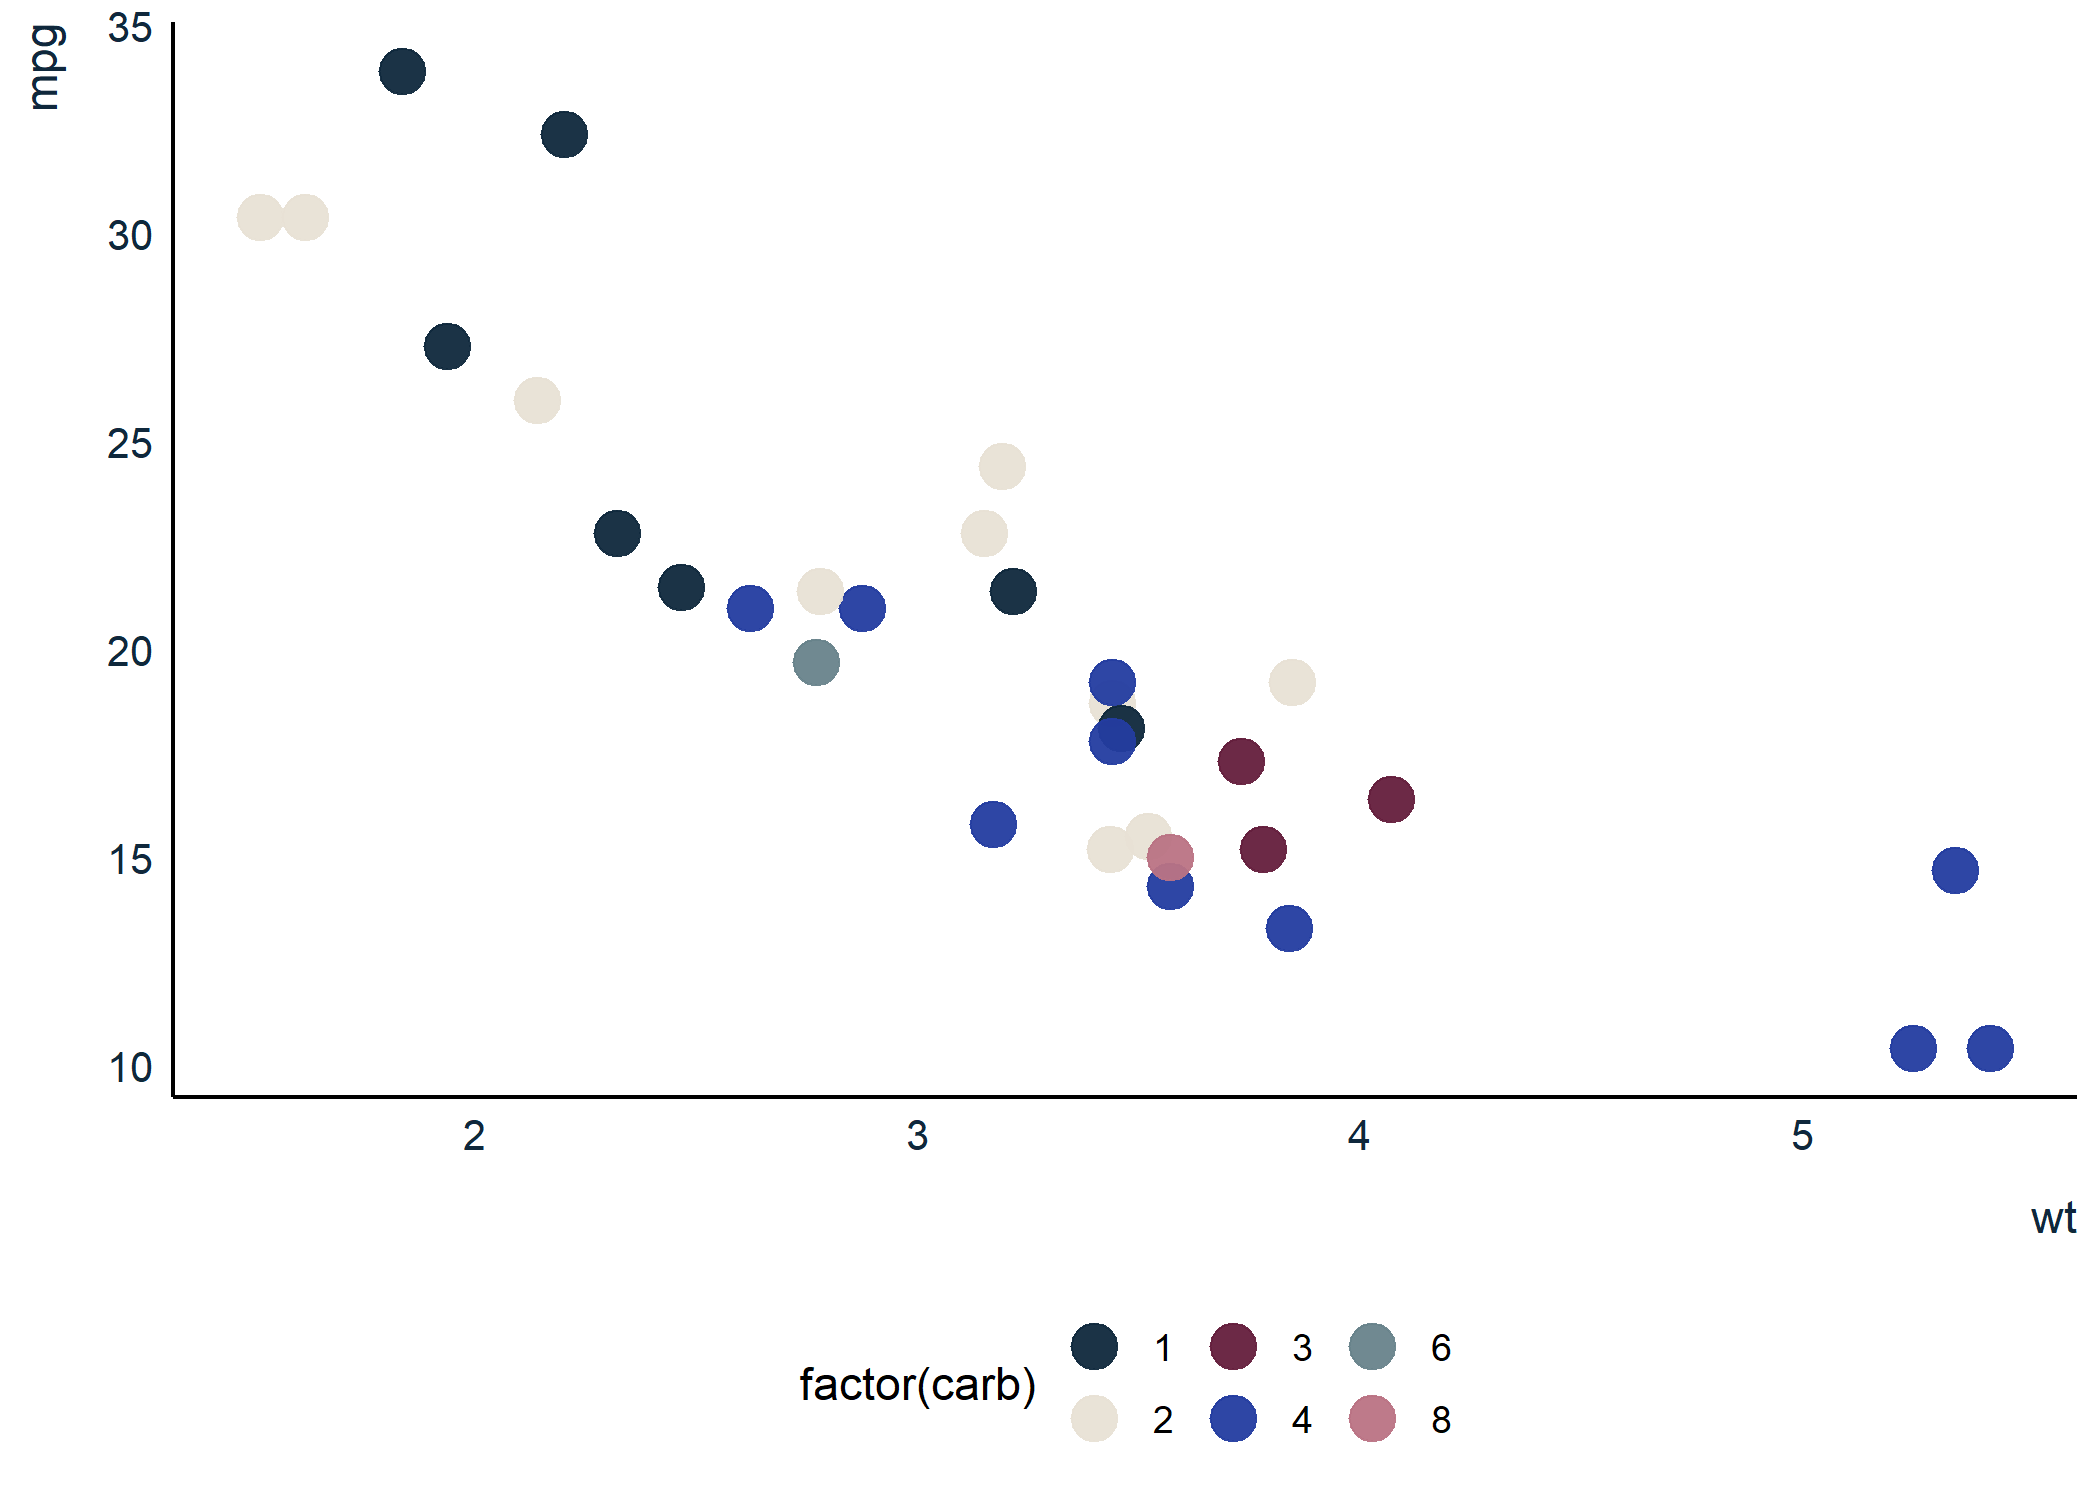
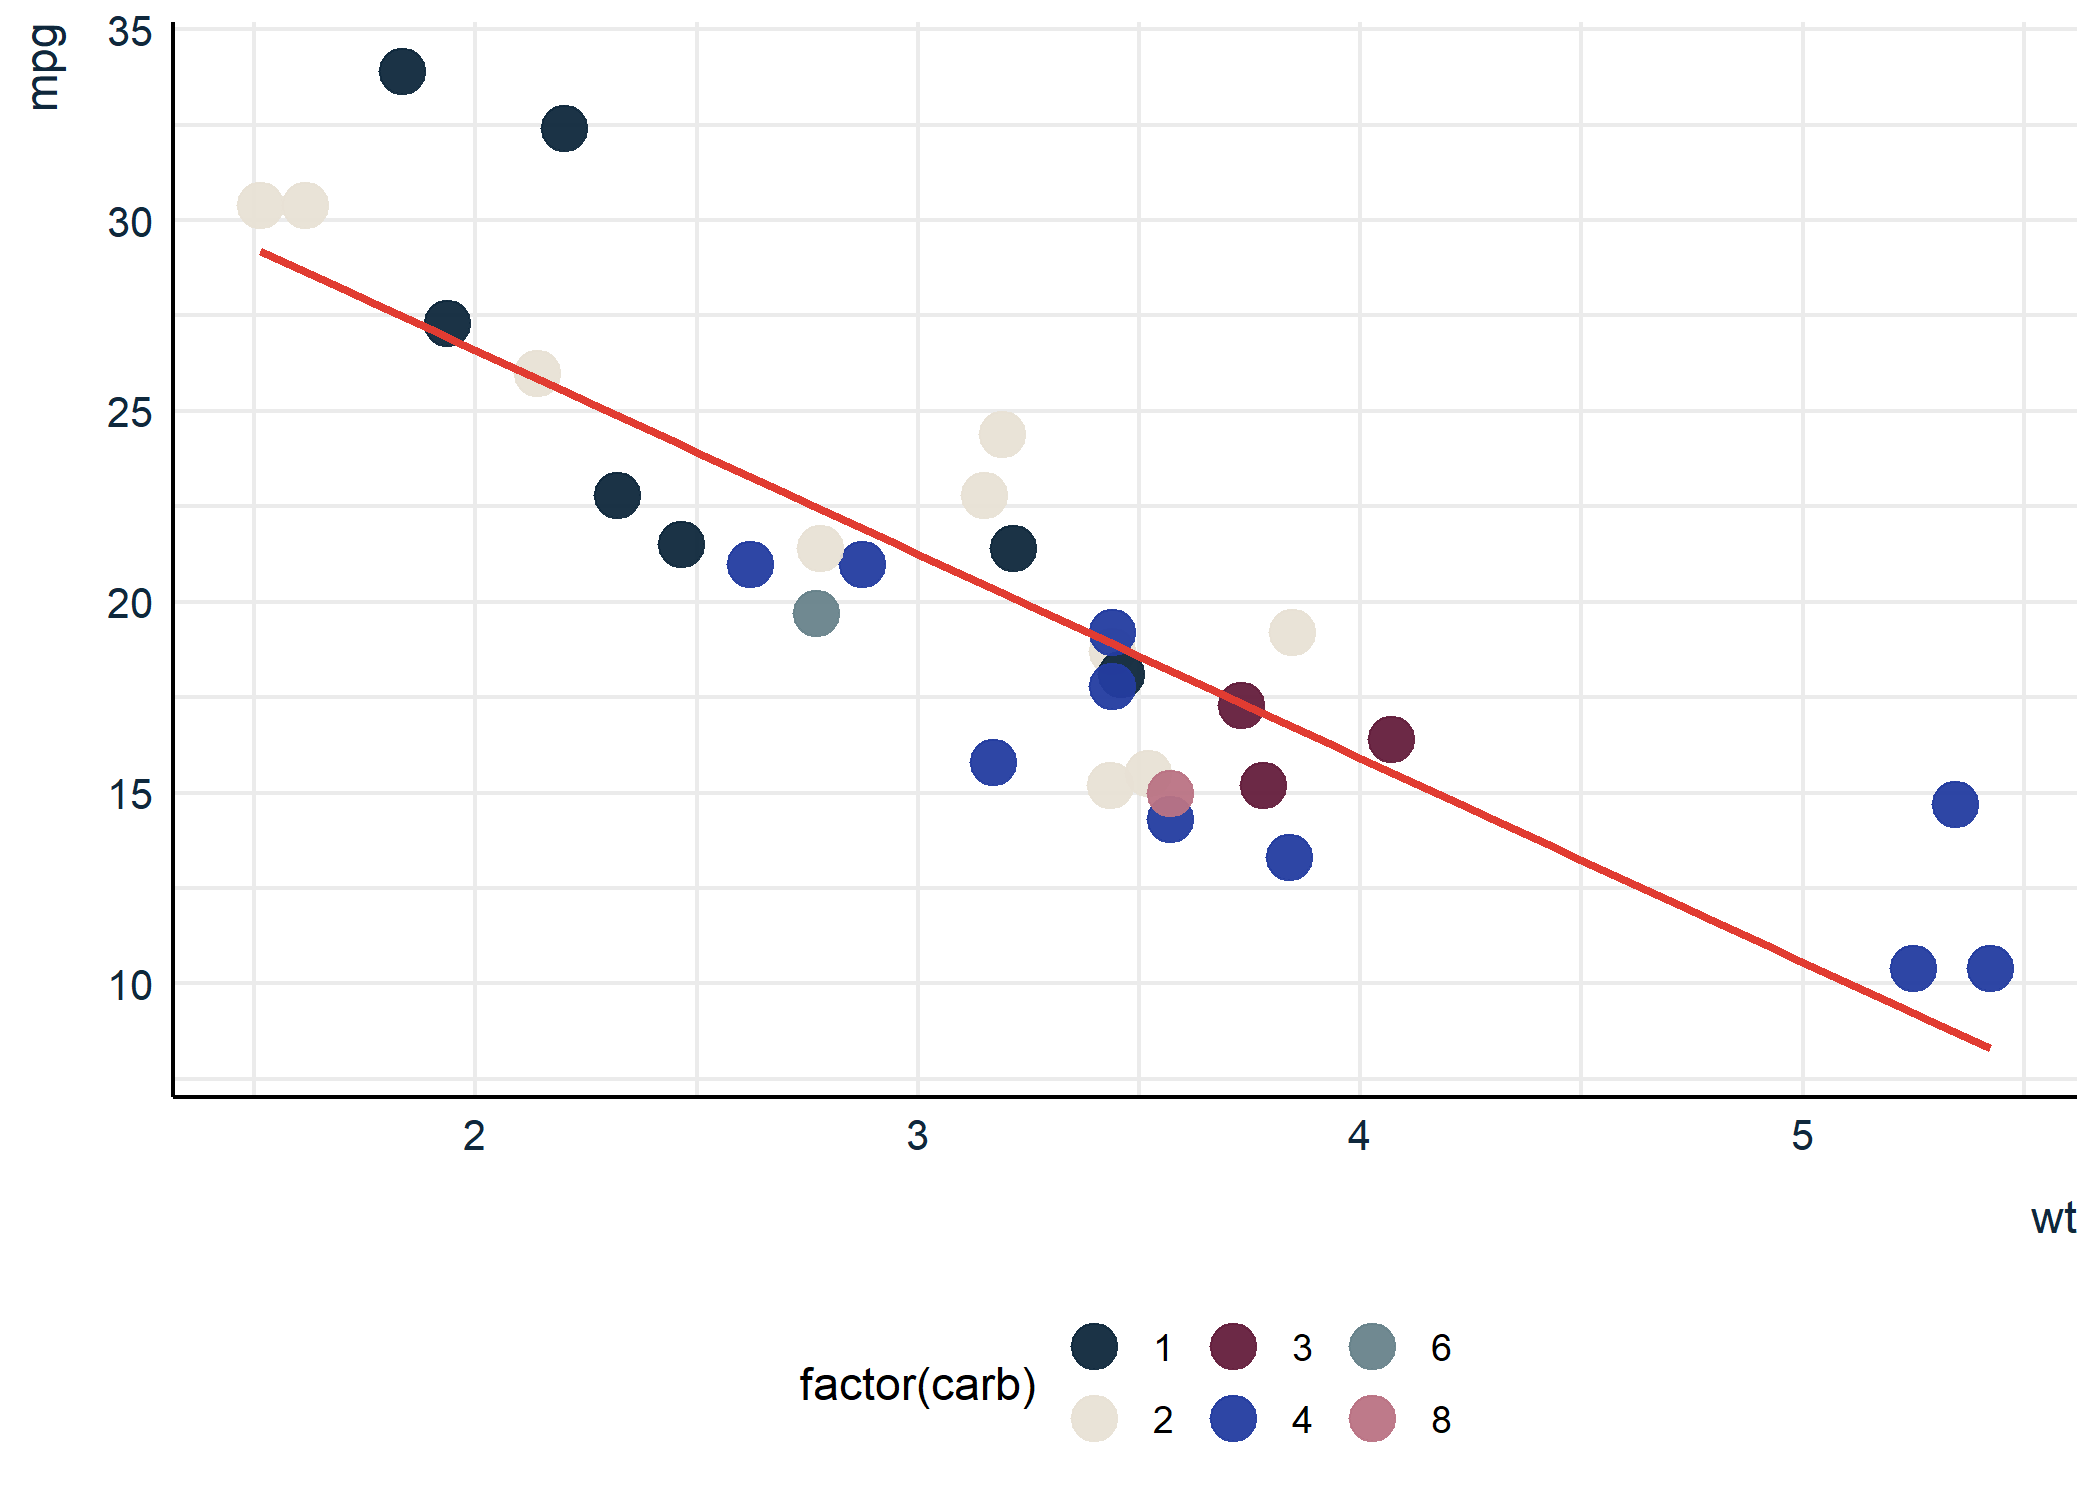
axis text

diff --git a/README.md b/README.md
@@ -36,11 +36,15 @@ library(repinion)
 library(tidyverse)
 
 ggplot(mtcars, aes(x = wt,
-                   y = mpg,
-                   color = factor(carb))) +
-  geom_point(size = 5,
+                   y = mpg)) +
+  geom_point(aes(color = factor(carb)),
+             size = 5,
              alpha = .95) +
-  epitheme_classic() +
+  geom_smooth(method = "lm",
+              size = 1,
+              color = getElement(getcols_epi(), "Epinion Red"),
+              se = F) +
+  epitheme_classic(gridlines = "both") +
   color_epi_d()
 ```
 
